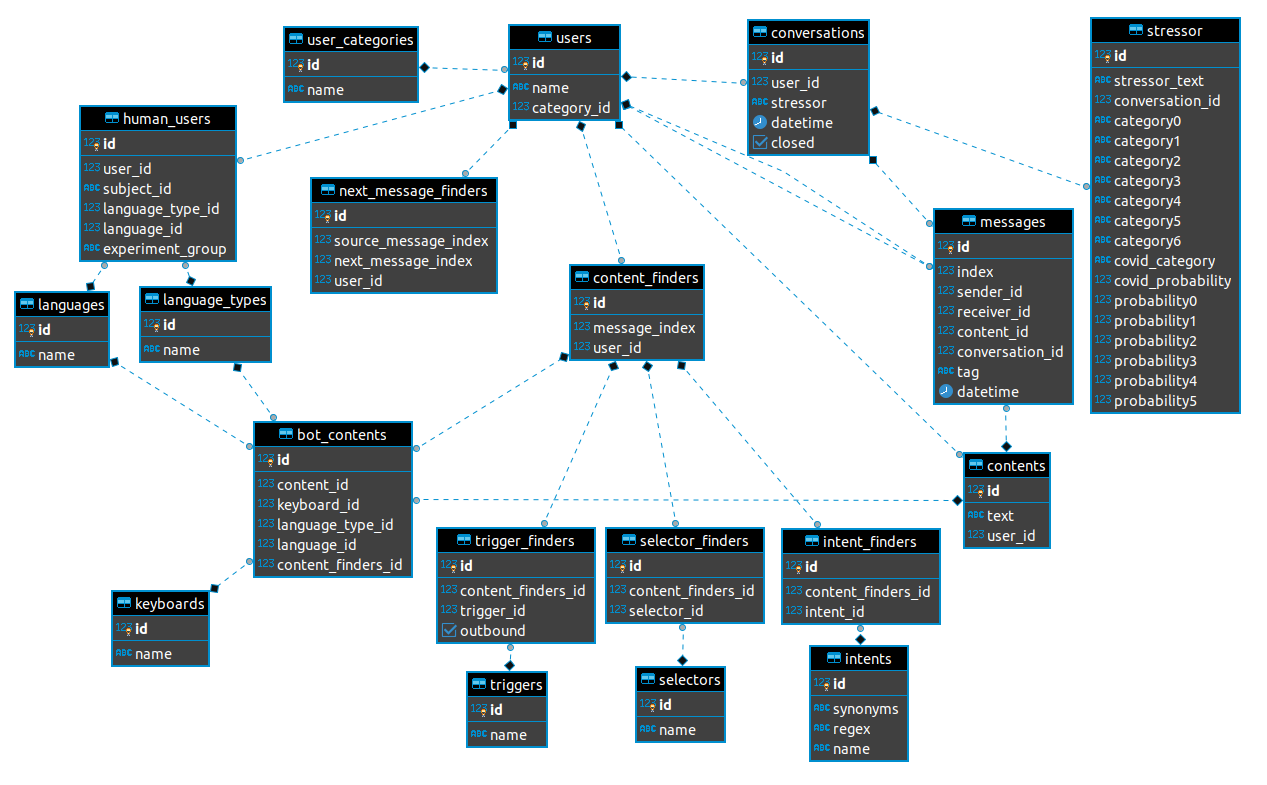
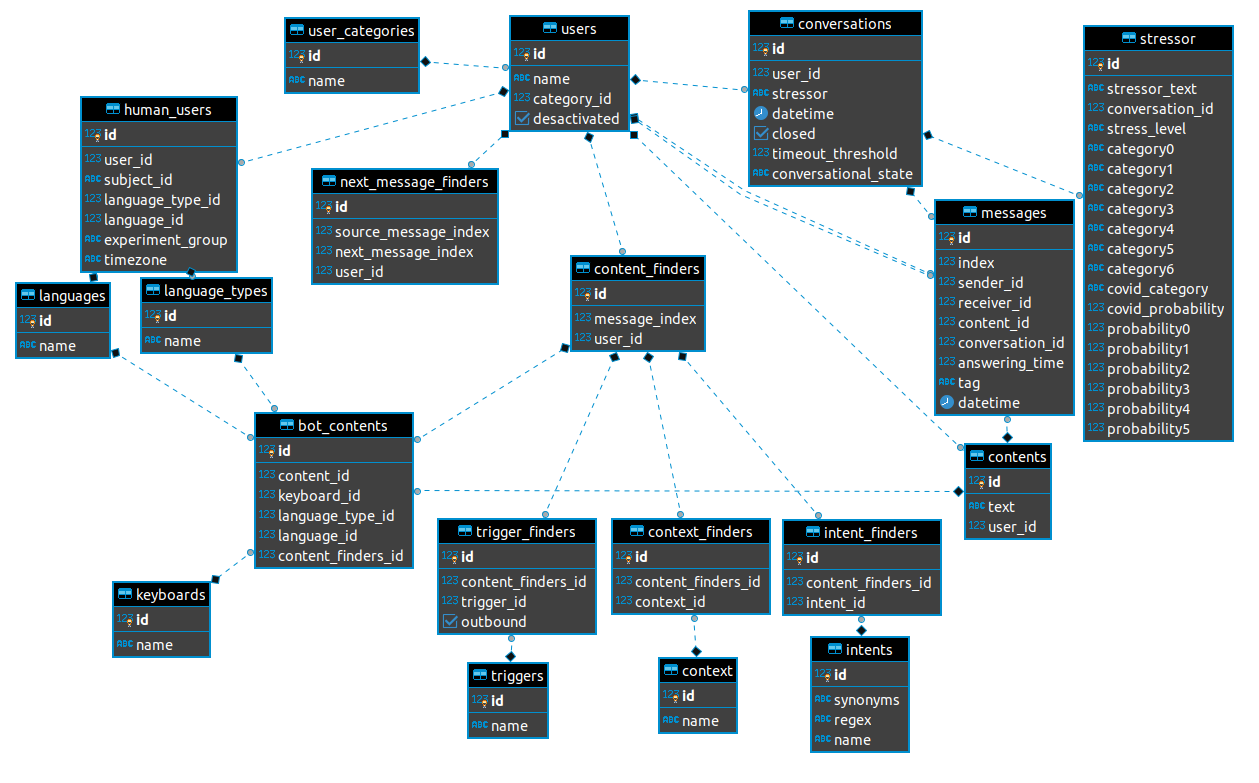
documentation

diff --git a/README.md b/README.md
@@ -51,9 +51,19 @@ This can be achieve via
 - Finally, run the populate_database_local.py script
     > python populate_database_local.py
 
-
-
+This will pull the data from a folder "./bot_sample_data/script.xlsx" this is an excel file containing all the bot scripts. 
 You will see terminal logs to indicate if the operation was successfull. 
+
+NOTE : This excel can be hosted in the google drive sheet to improve collaboration. To do this:
+
+1. Follow this medium tutorial to create a service account from which you can get credential. 
+https://medium.com/@denisluiz/python-with-google-sheets-service-account-step-by-step-8f74c26ed28e 
+
+Optain the service_credentials.json file an put it a directory at root called credentials/
+
+2. Create a google spreadsheet in google sheet and get the spreadsheet_id from the URL and add it in the `populate_database_live.py` script at the `SPREADSHEET_ID = "your id"`
+
+3. Copy all the scripts found in the script.xlsx with the proper tab names inside your google sheet. 
 
 
 ## 1.4 Running the code/telegram/slack sockets
@@ -78,12 +88,15 @@ To launch the program via pm2
 
 ## 2.1. Project structure 
 
+This project works best with the stress classifier flask api https://github.com/PervasiveWellbeingTech/Popbots-Flask-API-Stressor-Classifier 
+
+
 ### 2.1.1. (REST API)
 
 Popbots API is structured as follow (see image below). As much as possible it follow the REST API guidelines (here routers are controllers) 
 ![Schema Project Structure](./documentation/images/PopbotsAPI_structure.png)
 
-### 2.1.2. Database Structure (as of 03/22/2020)
+### 2.1.2. Database Structure (as of Sept 2020)
 
 
 ### ER (Entity Relation) Diagram
@@ -93,6 +106,8 @@ Popbots API is structured as follow (see image below). As much as possible it fo
 The database design is centered on the user, users can be Humans or Bot. This design may allow in the future direct conversation with human if needed. 
 
 Users if they are human have some more properties references in the table human_users
+
+
 
 To make authoring the bots scripts convienient, each bot has a 0-N index. This arbitraly given numbers are limiting the use of normal key-pair relationships since these requires unique ids. This explains why there is no relationships between next_message_finders and content_finders
 
@@ -113,7 +128,7 @@ content:
 
 ### **Table related to managing and storing conversations:**
 
-conversations:
+conversations: 
 
 messages:
 
@@ -163,7 +178,7 @@ To this table we need a one to many correspondance table
 
 Here for message index (1) there is two next possible indexes (2,3).
 
-Given the context of yes?no for message (1) we will parse the user message and look for a positive or negative answer we will extract one intent (Extracted Intent)
+Given the context of yes/no for message (1) we will parse the user message and look for a positive or negative intent in the answer and will extract one intent (Extracted Intent)
 
 Base on the **Extracted intent** we will select the good response between (2,3)
 
@@ -172,7 +187,7 @@ Base on the **Extracted intent** we will select the good response between (2,3)
 
 ### 2.2.2. Context
 
-context define at index x what are the expected intents at indexes x+1
+Context define at index n what are the expected intents at indexes n+1
 Reminder: We introduce the concept of context to make sure that inputting as been correctly done. 
 
 Typical contexts are as follow:
